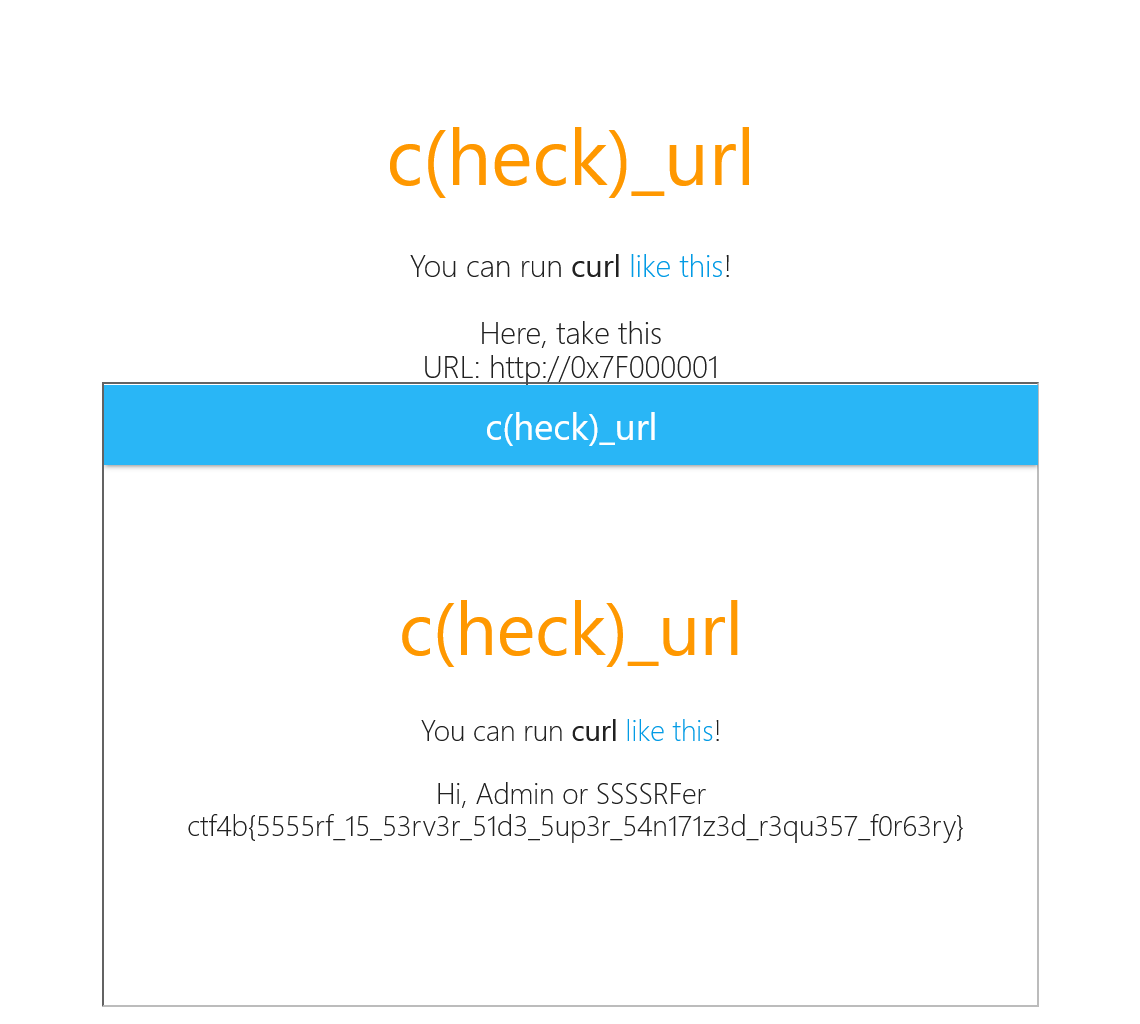
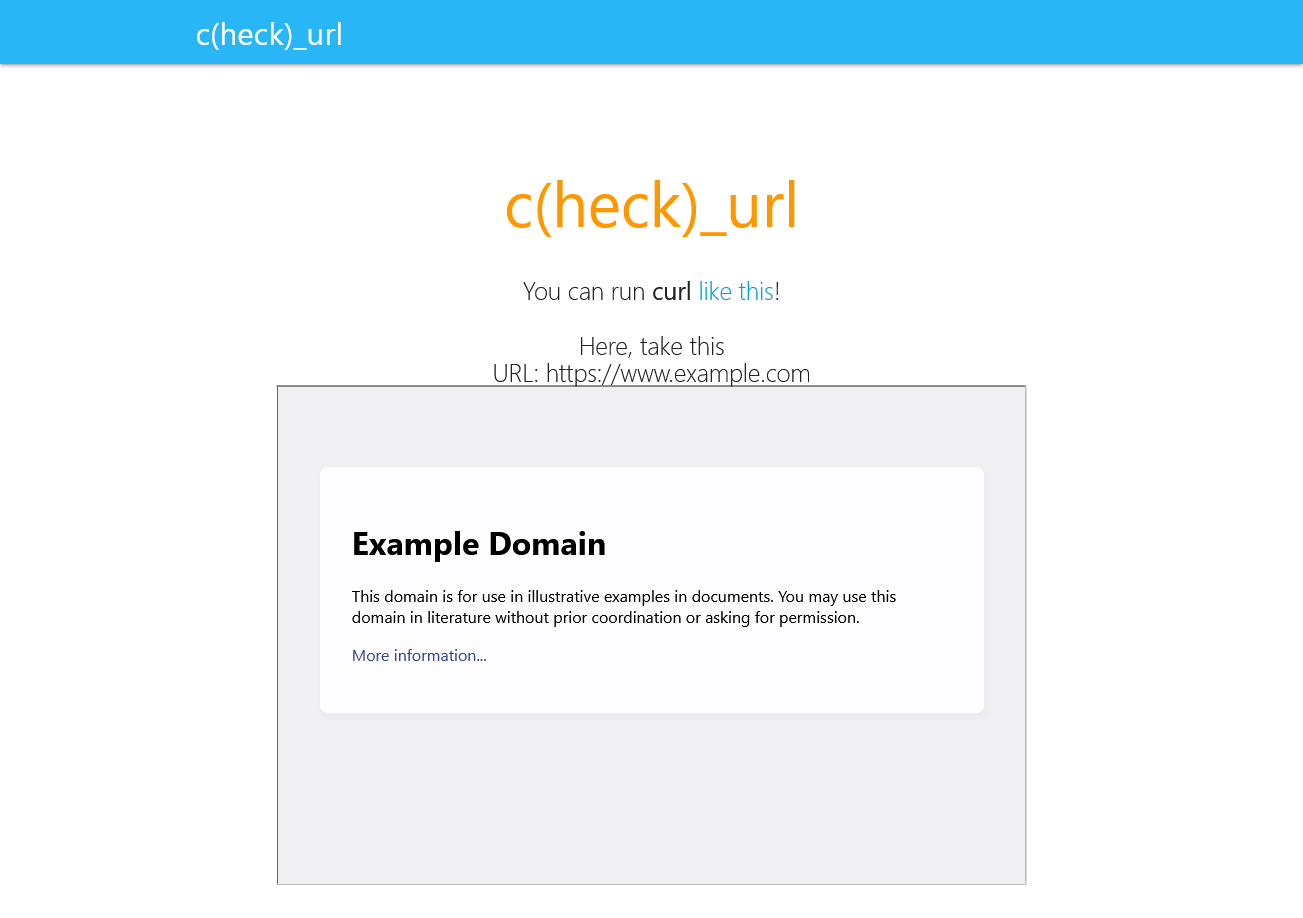
fix

diff --git a/web/check_url/README.md b/web/check_url/README.md
@@ -15,9 +15,11 @@ curlは`$ curl "ｗｗｗ。ｇｏｏｇｌｅ。ｃｏｍ"`もOKなので全角
 File URI Schemeでのディレクトリトラバーサルのラビットホールを置いとこうとも思いましたがEasyなので最終的に止めました。  
 
 ## 解法
+curlがお試しできるサイトのようだ。  
+![images/0.png](images/0.png)  
 ソースコードが配られる。  
 `$_SERVER["REMOTE_ADDR"] === "127.0.0.1"`にてローカルからのアクセスではAdminだと判断されるが、Trueにはならない。  
-curlを実行できるようなのでSSRFでフラグを読みだせばよいとすぐにわかる。  
+curl_execを実行できるのでSSRFでフラグを読みだせばよいとすぐにわかる。  
 しかし、スーパーサニタイズによってアルファベットと数字以外弾かれる。  
 ```php
 if ($url !== "https://www.example.com"){
@@ -31,6 +33,6 @@ if(stripos($url,"localhost") !== false || stripos($url,"apache") !== false){
 `localhost`ならばアルファベットのみだがこれも許可されていない。  
 `localhost`の別の記述方法を探すと`2130706433`や`0x7F000001`や`017700000001`と表せる([参考](https://qiita.com/naka_kyon/items/88478be20b300e757fc0))。  
 curl_execでは使用できないパターンもあるが、`https://check-url.quals.beginners.seccon.jp/?url=http://0x7F000001`でフラグが得られる。  
-![images/0.png](images/0.png)  
+![images/1.png](images/1.png)  
 
 ## ctf4b{5555rf_15_53rv3r_51d3_5up3r_54n171z3d_r3qu357_f0r63ry}

diff --git a/web/cant_use_db/README.md b/web/cant_use_db/README.md
@@ -18,6 +18,8 @@ I have so little money that I can't even buy the ingredients for ramen.
 コードがクソだと感じたあなたは正常です。  
 
 ## 解法
+ラーメンサイトが表示される。  
+![images/0.png](images/0.png)  
 ソースを見ると、ユーザ情報はファイル管理のようだ。  
 所持金以上のものを買うサイトから見てもrace conditionを狙う。  
 購入処理で`/buy_noodles`、`/buy_soup`へPOSTを投げているようだ。  
